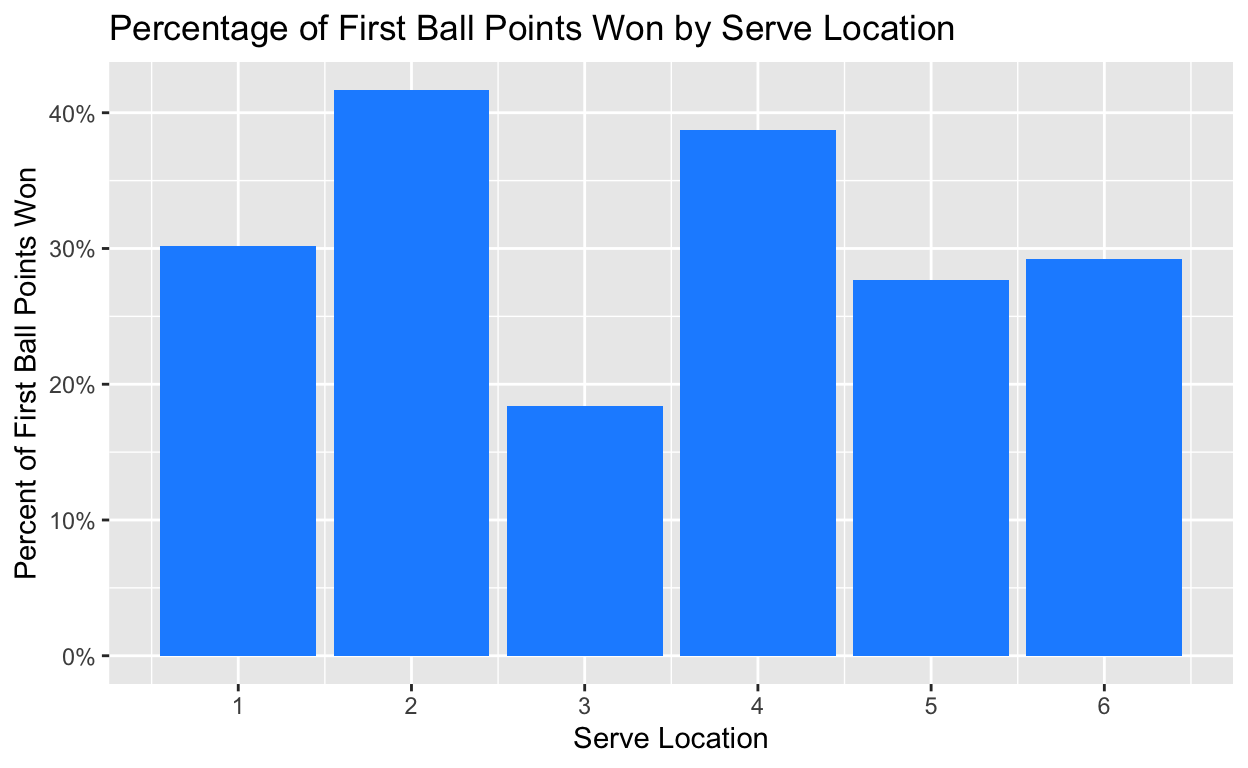
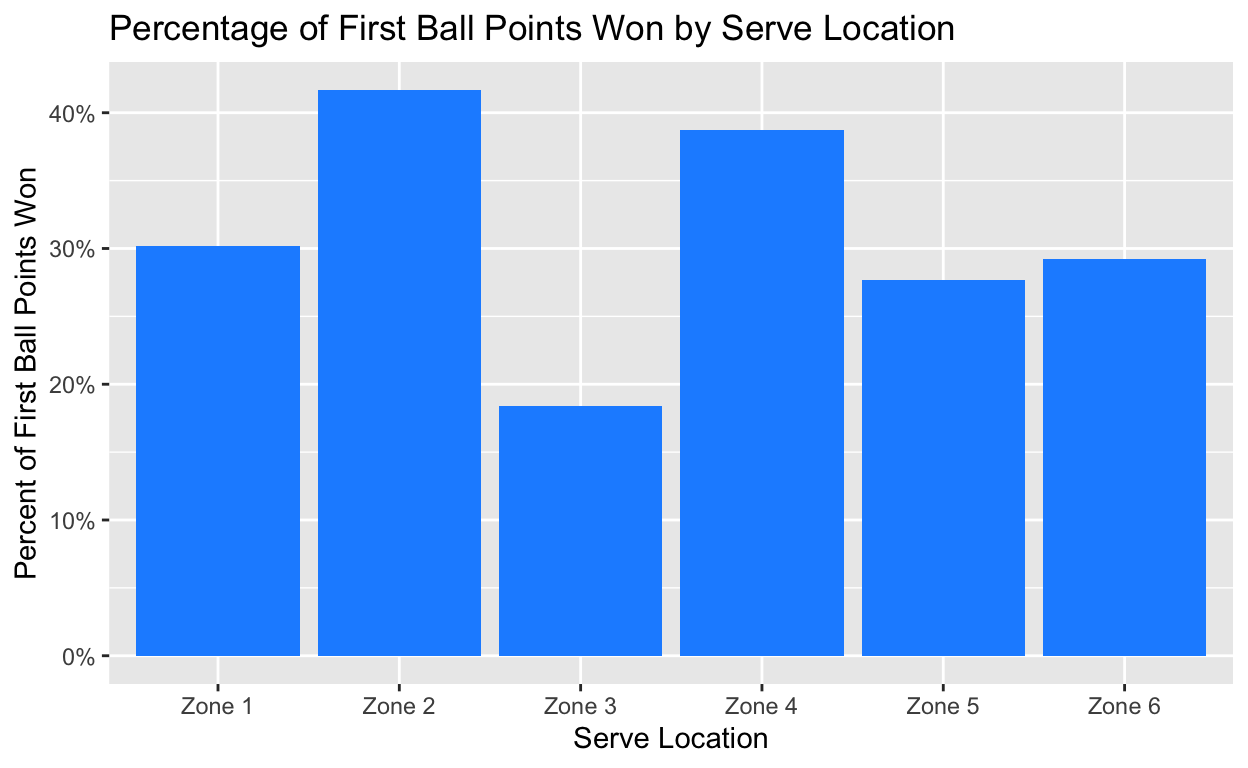
milestone 4

diff --git a/index.html b/index.html
@@ -116,7 +116,7 @@ code span.wa { color: #5e5e5e; font-style: italic; } /* Warning */
   <!--/radix_placeholder_rmarkdown_metadata-->
   
   <script type="text/json" id="radix-resource-manifest">
-  {"type":"character","attributes":{},"value":["index_files/anchor-4.2.2/anchor.min.js","index_files/bowser-1.9.3/bowser.min.js","index_files/distill-2.2.21/template.v2.js","index_files/figure-html5/plot for loss proportion-1.png","index_files/figure-html5/Plot for win proportion-1.png","index_files/header-attrs-2.17/header-attrs.js","index_files/header-attrs-2.30/header-attrs.js","index_files/jquery-3.6.0/jquery-3.6.0.js","index_files/jquery-3.6.0/jquery-3.6.0.min.js","index_files/jquery-3.6.0/jquery-3.6.0.min.map","index_files/popper-2.6.0/popper.min.js","index_files/tippy-6.2.7/tippy-bundle.umd.min.js","index_files/tippy-6.2.7/tippy-light-border.css","index_files/tippy-6.2.7/tippy.css","index_files/tippy-6.2.7/tippy.umd.min.js","index_files/webcomponents-2.0.0/webcomponents.js","Team_data/ASU_MASTER.csv","Team_data/ASU_MASTER.numbers","Team_data/AUB_MASTER.csv","Team_data/CCU_MASTER.csv","Team_data/GSO_MASTER.csv","Team_data/ISU_MASTER.csv"]}
+  {"type":"character","attributes":{},"value":["index_files/anchor-4.2.2/anchor.min.js","index_files/bowser-1.9.3/bowser.min.js","index_files/distill-2.2.21/template.v2.js","index_files/figure-html5/plot for loss proportion-1.png","index_files/figure-html5/Plot for win proportion-1.png","index_files/figure-html5/unnamed-chunk-3-1.png","index_files/header-attrs-2.17/header-attrs.js","index_files/header-attrs-2.30/header-attrs.js","index_files/jquery-3.6.0/jquery-3.6.0.js","index_files/jquery-3.6.0/jquery-3.6.0.min.js","index_files/jquery-3.6.0/jquery-3.6.0.min.map","index_files/popper-2.6.0/popper.min.js","index_files/tippy-6.2.7/tippy-bundle.umd.min.js","index_files/tippy-6.2.7/tippy-light-border.css","index_files/tippy-6.2.7/tippy.css","index_files/tippy-6.2.7/tippy.umd.min.js","index_files/webcomponents-2.0.0/webcomponents.js","Team_data/ASU_MASTER.csv","Team_data/ASU_MASTER.numbers","Team_data/AUB_MASTER.csv","Team_data/CCU_MASTER.csv","Team_data/GSO_MASTER.csv","Team_data/ISU_MASTER.csv"]}
   </script>
   <!--radix_placeholder_navigation_in_header-->
   <!--/radix_placeholder_navigation_in_header-->
@@ -1657,43 +1657,26 @@ code span.wa { color: #5e5e5e; font-style: italic; } /* Warning */
 <div class="sourceCode">
 <pre class="sourceCode r"><code class="sourceCode r"><span><span class='va'>all_teams</span><span class='op'>&lt;-</span> <span class='va'>all_teams</span> <span class='op'>|&gt;</span> </span>
 <span>   <span class='fu'><a href='https://dplyr.tidyverse.org/reference/mutate.html'>mutate</a></span><span class='op'>(</span>FBWL <span class='op'>=</span> <span class='fu'><a href='https://dplyr.tidyverse.org/reference/case_when.html'>case_when</a></span><span class='op'>(</span><span class='va'>FBWL</span> <span class='op'>==</span> <span class='st'>"W"</span> <span class='op'>~</span> <span class='st'>"Win"</span>, <span class='va'>FBWL</span> <span class='op'>==</span> <span class='st'>"L"</span> <span class='op'>~</span> <span class='st'>"Loss"</span><span class='op'>)</span>,</span>
-<span>          FBWL <span class='op'>=</span> <span class='fu'><a href='https://tidyr.tidyverse.org/reference/replace_na.html'>replace_na</a></span><span class='op'>(</span><span class='va'>FBWL</span>, <span class='st'>"Rally Continued"</span><span class='op'>)</span><span class='op'>)</span> </span>
+<span>          FBWL <span class='op'>=</span> <span class='fu'><a href='https://tidyr.tidyverse.org/reference/replace_na.html'>replace_na</a></span><span class='op'>(</span><span class='va'>FBWL</span>, <span class='st'>"Rally Continued"</span><span class='op'>)</span><span class='op'>)</span> <span class='op'>|&gt;</span> </span>
+<span>  <span class='fu'><a href='https://dplyr.tidyverse.org/reference/mutate.html'>mutate</a></span><span class='op'>(</span>`Pass Loc` <span class='op'>=</span> <span class='fu'><a href='https://rdrr.io/r/base/paste.html'>paste</a></span><span class='op'>(</span><span class='st'>"Zone"</span>, <span class='va'>`Pass Loc`</span><span class='op'>)</span><span class='op'>)</span></span>
 <span><span class='va'>all_teams</span></span></code></pre>
 </div>
 <pre><code># A tibble: 2,866 × 4
    Team  Rotation `Pass Loc` FBWL           
-   &lt;chr&gt;    &lt;dbl&gt;      &lt;dbl&gt; &lt;chr&gt;          
- 1 AUB          1          5 Win            
- 2 AUB          1          5 Win            
- 3 AUB          1          1 Win            
- 4 AUB          1          1 Win            
- 5 AUB          1          1 Rally Continued
- 6 AUB          1          6 Rally Continued
- 7 AUB          1          5 Rally Continued
- 8 AUB          2          5 Rally Continued
- 9 AUB          2          1 Rally Continued
-10 AUB          2          6 Rally Continued
+   &lt;chr&gt;    &lt;dbl&gt; &lt;chr&gt;      &lt;chr&gt;          
+ 1 AUB          1 Zone 5     Win            
+ 2 AUB          1 Zone 5     Win            
+ 3 AUB          1 Zone 1     Win            
+ 4 AUB          1 Zone 1     Win            
+ 5 AUB          1 Zone 1     Rally Continued
+ 6 AUB          1 Zone 6     Rally Continued
+ 7 AUB          1 Zone 5     Rally Continued
+ 8 AUB          2 Zone 5     Rally Continued
+ 9 AUB          2 Zone 1     Rally Continued
+10 AUB          2 Zone 6     Rally Continued
 # ℹ 2,856 more rows</code></pre>
 </div>
-<div class="layout-chunk" data-layout="l-body">
-<div class="sourceCode">
-<pre class="sourceCode r"><code class="sourceCode r"><span><span class='va'>all_teams</span></span></code></pre>
-</div>
-<pre><code># A tibble: 2,866 × 4
-   Team  Rotation `Pass Loc` FBWL           
-   &lt;chr&gt;    &lt;dbl&gt;      &lt;dbl&gt; &lt;chr&gt;          
- 1 AUB          1          5 Win            
- 2 AUB          1          5 Win            
- 3 AUB          1          1 Win            
- 4 AUB          1          1 Win            
- 5 AUB          1          1 Rally Continued
- 6 AUB          1          6 Rally Continued
- 7 AUB          1          5 Rally Continued
- 8 AUB          2          5 Rally Continued
- 9 AUB          2          1 Rally Continued
-10 AUB          2          6 Rally Continued
-# ℹ 2,856 more rows</code></pre>
-</div>
+<h2 id="winloss-proportions-with-visualizations">Win/Loss Proportions with Visualizations</h2>
 <div class="layout-chunk" data-layout="l-body">
 <div class="sourceCode">
 <pre class="sourceCode r"><code class="sourceCode r"><span> <span class='va'>prop_win</span><span class='op'>&lt;-</span> <span class='va'>all_teams</span><span class='op'>|&gt;</span> </span>
@@ -1718,7 +1701,6 @@ code span.wa { color: #5e5e5e; font-style: italic; } /* Warning */
 <div class="sourceCode">
 <pre class="sourceCode r"><code class="sourceCode r"><span><span class='fu'><a href='https://ggplot2.tidyverse.org/reference/ggplot.html'>ggplot</a></span><span class='op'>(</span><span class='va'>prop_win</span>, mapping <span class='op'>=</span> <span class='fu'><a href='https://ggplot2.tidyverse.org/reference/aes.html'>aes</a></span><span class='op'>(</span>x <span class='op'>=</span> <span class='va'>`Pass Loc`</span>, y <span class='op'>=</span> <span class='va'>prop</span> <span class='op'>)</span><span class='op'>)</span><span class='op'>+</span> </span>
 <span>  <span class='fu'><a href='https://ggplot2.tidyverse.org/reference/geom_bar.html'>geom_col</a></span><span class='op'>(</span>fill <span class='op'>=</span> <span class='st'>"dodgerblue"</span>, alpha <span class='op'>=</span> <span class='fl'>1</span><span class='op'>)</span> <span class='op'>+</span></span>
-<span>  <span class='fu'><a href='https://ggplot2.tidyverse.org/reference/scale_continuous.html'>scale_x_continuous</a></span><span class='op'>(</span>breaks <span class='op'>=</span> <span class='fl'>1</span><span class='op'>:</span><span class='fl'>6</span><span class='op'>)</span> <span class='op'>+</span></span>
 <span>  <span class='fu'><a href='https://ggplot2.tidyverse.org/reference/scale_continuous.html'>scale_y_continuous</a></span><span class='op'>(</span>labels <span class='op'>=</span> <span class='fu'><a href='https://scales.r-lib.org/reference/percent_format.html'>percent_format</a></span><span class='op'>(</span><span class='op'>)</span><span class='op'>)</span> <span class='op'>+</span></span>
 <span>  <span class='fu'><a href='https://ggplot2.tidyverse.org/reference/labs.html'>labs</a></span><span class='op'>(</span>title <span class='op'>=</span> <span class='st'>"Percentage of First Ball Points Won by Serve Location"</span>, </span>
 <span>       x <span class='op'>=</span> <span class='st'>"Serve Location"</span>, </span>
@@ -1730,7 +1712,6 @@ code span.wa { color: #5e5e5e; font-style: italic; } /* Warning */
 <div class="sourceCode">
 <pre class="sourceCode r"><code class="sourceCode r"><span><span class='fu'><a href='https://ggplot2.tidyverse.org/reference/ggplot.html'>ggplot</a></span><span class='op'>(</span><span class='va'>prop_loss</span>, mapping <span class='op'>=</span> <span class='fu'><a href='https://ggplot2.tidyverse.org/reference/aes.html'>aes</a></span><span class='op'>(</span>x <span class='op'>=</span> <span class='va'>`Pass Loc`</span>, y <span class='op'>=</span> <span class='va'>prop</span><span class='op'>)</span><span class='op'>)</span> <span class='op'>+</span> </span>
 <span>  <span class='fu'><a href='https://ggplot2.tidyverse.org/reference/geom_bar.html'>geom_col</a></span><span class='op'>(</span>fill <span class='op'>=</span> <span class='st'>"indianred"</span>, alpha <span class='op'>=</span> <span class='fl'>1</span><span class='op'>)</span> <span class='op'>+</span> </span>
-<span>  <span class='fu'><a href='https://ggplot2.tidyverse.org/reference/scale_continuous.html'>scale_x_continuous</a></span><span class='op'>(</span>breaks <span class='op'>=</span> <span class='fl'>1</span><span class='op'>:</span><span class='fl'>6</span><span class='op'>)</span> <span class='op'>+</span></span>
 <span>  <span class='fu'><a href='https://ggplot2.tidyverse.org/reference/scale_continuous.html'>scale_y_continuous</a></span><span class='op'>(</span>labels <span class='op'>=</span> <span class='fu'><a href='https://scales.r-lib.org/reference/percent_format.html'>percent_format</a></span><span class='op'>(</span><span class='op'>)</span>, breaks <span class='op'>=</span> <span class='fu'><a href='https://rdrr.io/r/base/seq.html'>seq</a></span><span class='op'>(</span><span class='fl'>0</span>, <span class='fl'>1</span>, by <span class='op'>=</span> <span class='fl'>0.05</span><span class='op'>)</span><span class='op'>)</span> <span class='op'>+</span></span>
 <span>  <span class='fu'><a href='https://ggplot2.tidyverse.org/reference/labs.html'>labs</a></span><span class='op'>(</span>title <span class='op'>=</span> <span class='st'>"Percentage of First Ball Points Lost by Serve Location"</span>, </span>
 <span>       x <span class='op'>=</span> <span class='st'>"Serve Location"</span>, </span>
@@ -1738,7 +1719,64 @@ code span.wa { color: #5e5e5e; font-style: italic; } /* Warning */
 </div>
 <p><img src="index_files/figure-html5/plot%20for%20loss%20proportion-1.png" alt="" width="624" /></p>
 </div>
-<div class="sourceCode" id="cb8"><pre class="sourceCode r distill-force-highlighting-css"><code class="sourceCode r"></code></pre></div>
+<h2 id="regression-and-interpretation">Regression and Interpretation</h2>
+<div class="layout-chunk" data-layout="l-body">
+<div class="sourceCode">
+<pre class="sourceCode r"><code class="sourceCode r"><span><span class='fu'><a href='https://rdrr.io/r/stats/lm.html'>lm</a></span><span class='op'>(</span><span class='va'>FBWL</span> <span class='op'>==</span> <span class='st'>"Win"</span> <span class='op'>~</span> <span class='va'>`Pass Loc`</span>, data <span class='op'>=</span> <span class='va'>all_teams</span><span class='op'>)</span></span></code></pre>
+</div>
+<pre><code>
+Call:
+lm(formula = FBWL == &quot;Win&quot; ~ `Pass Loc`, data = all_teams)
+
+Coefficients:
+      (Intercept)   `Pass Loc`Zone 2   `Pass Loc`Zone 3  
+          0.30154            0.11513           -0.11733  
+ `Pass Loc`Zone 4   `Pass Loc`Zone 5   `Pass Loc`Zone 6  
+          0.08556           -0.02506           -0.00913  
+`Pass Loc`Zone NA  
+         -0.30154  </code></pre>
+</div>
+<p>Interpretation:
+Within this regression, the intercept is the predicted win rate for serves to zone 1, which is 0.30154 or 30.154 and this serves as a baseline value for the other locations. This means that when the ball is served to zone 2, the predicted first ball win rate is .11513 or 11.513 percentage points higher than if the ball were to be served to zone 1. Following this logic for the other zones, it can be observed that serves to zone 3 have a predicted win rate that is 11.733 percentage points lower than serves to zone 1. Serves to zone 4 have a predicted win rate that is 8.556 percentage points higher than serves to zone 1. Serves to zone 5 have a predicted win rate that is 0.2506 percentage points lower than serves to zone 1. Finally, serves to zone 6 have a predicted win rate that is 0.0913 percentage points lower than serves to zone 1. All in all, this regression predicts that serves to zone 2 will have a win rate that is marginally higher than zone 1 and the next closest predicted win rate which is zone 4.</p>
+<div class="layout-chunk" data-layout="l-body">
+<div class="sourceCode">
+<pre class="sourceCode r"><code class="sourceCode r"><span><span class='kw'><a href='https://rdrr.io/r/base/library.html'>library</a></span><span class='op'>(</span><span class='va'><a href='https://github.com/tidymodels/infer'>infer</a></span><span class='op'>)</span></span>
+<span></span>
+<span><span class='va'>boot_prop_win</span> <span class='op'>&lt;-</span> <span class='va'>all_teams</span><span class='op'>|&gt;</span> </span>
+<span>  <span class='fu'><a href='https://infer.tidymodels.org/reference/rep_sample_n.html'>rep_slice_sample</a></span><span class='op'>(</span>prop <span class='op'>=</span> <span class='fl'>1</span>, replace <span class='op'>=</span> <span class='cn'>TRUE</span>, reps <span class='op'>=</span> <span class='fl'>1000</span><span class='op'>)</span> <span class='op'>|&gt;</span> </span>
+<span>  <span class='fu'><a href='https://tidyr.tidyverse.org/reference/drop_na.html'>drop_na</a></span><span class='op'>(</span><span class='op'>)</span> <span class='op'>|&gt;</span></span>
+<span>  <span class='fu'><a href='https://dplyr.tidyverse.org/reference/group_by.html'>group_by</a></span><span class='op'>(</span><span class='va'>replicate</span>, <span class='va'>`Pass Loc`</span>, <span class='va'>FBWL</span><span class='op'>)</span><span class='op'>|&gt;</span> </span>
+<span>  <span class='fu'><a href='https://dplyr.tidyverse.org/reference/summarise.html'>summarise</a></span><span class='op'>(</span>n <span class='op'>=</span> <span class='fu'><a href='https://dplyr.tidyverse.org/reference/context.html'>n</a></span><span class='op'>(</span><span class='op'>)</span>, .groups <span class='op'>=</span> <span class='st'>"drop_last"</span><span class='op'>)</span> <span class='op'>|&gt;</span> </span>
+<span>  <span class='fu'><a href='https://dplyr.tidyverse.org/reference/mutate.html'>mutate</a></span><span class='op'>(</span>prop <span class='op'>=</span> <span class='va'>n</span><span class='op'>/</span><span class='fu'><a href='https://rdrr.io/r/base/sum.html'>sum</a></span><span class='op'>(</span><span class='va'>n</span><span class='op'>)</span><span class='op'>)</span> <span class='op'>|&gt;</span> </span>
+<span>  <span class='fu'><a href='https://dplyr.tidyverse.org/reference/filter.html'>filter</a></span><span class='op'>(</span><span class='va'>FBWL</span> <span class='op'>==</span> <span class='st'>"Win"</span><span class='op'>)</span> <span class='op'>|&gt;</span></span>
+<span>   <span class='fu'><a href='https://tidyr.tidyverse.org/reference/pivot_wider.html'>pivot_wider</a></span><span class='op'>(</span> names_from <span class='op'>=</span> <span class='va'>replicate</span>, <span class='va'>`Pass Loc`</span>,</span>
+<span>              values_from <span class='op'>=</span> <span class='va'>prop</span><span class='op'>)</span> <span class='op'>|&gt;</span></span>
+<span>     <span class='fu'><a href='https://dplyr.tidyverse.org/reference/mutate.html'>mutate</a></span><span class='op'>(</span>mean_prop <span class='op'>=</span> <span class='fu'><a href='https://rdrr.io/r/base/colSums.html'>rowMeans</a></span><span class='op'>(</span><span class='fu'><a href='https://dplyr.tidyverse.org/reference/across.html'>across</a></span><span class='op'>(</span><span class='fu'><a href='https://tidyselect.r-lib.org/reference/where.html'>where</a></span><span class='op'>(</span><span class='va'>is.numeric</span><span class='op'>)</span><span class='op'>)</span>, na.rm <span class='op'>=</span> <span class='cn'>TRUE</span><span class='op'>)</span><span class='op'>)</span> <span class='op'>|&gt;</span> </span>
+<span>    <span class='fu'><a href='https://dplyr.tidyverse.org/reference/select.html'>select</a></span><span class='op'>(</span><span class='va'>`Pass Loc`</span>, <span class='va'>mean_prop</span><span class='op'>)</span></span>
+<span></span>
+<span></span>
+<span> </span>
+<span><span class='va'>boot_prop_win</span></span></code></pre>
+</div>
+<pre><code># A tibble: 6 × 2
+# Groups:   Pass Loc [6]
+  `Pass Loc` mean_prop
+  &lt;chr&gt;          &lt;dbl&gt;
+1 Zone 1         0.301
+2 Zone 2         0.424
+3 Zone 3         0.184
+4 Zone 4         0.389
+5 Zone 5         0.277
+6 Zone 6         0.293</code></pre>
+</div>
+<div class="layout-chunk" data-layout="l-body">
+<div class="sourceCode">
+<pre class="sourceCode r"><code class="sourceCode r"><span><span class='fu'><a href='https://ggplot2.tidyverse.org/reference/ggplot.html'>ggplot</a></span><span class='op'>(</span>data <span class='op'>=</span> <span class='va'>boot_prop_win</span>, mapping <span class='op'>=</span> <span class='fu'><a href='https://ggplot2.tidyverse.org/reference/aes.html'>aes</a></span><span class='op'>(</span>x <span class='op'>=</span> <span class='va'>`Pass Loc`</span><span class='op'>)</span><span class='op'>)</span> <span class='op'>+</span> </span>
+<span>  <span class='fu'><a href='https://ggplot2.tidyverse.org/reference/geom_bar.html'>geom_col</a></span><span class='op'>(</span><span class='fu'><a href='https://ggplot2.tidyverse.org/reference/aes.html'>aes</a></span><span class='op'>(</span>y <span class='op'>=</span> <span class='va'>mean_prop</span><span class='op'>)</span><span class='op'>)</span></span></code></pre>
+</div>
+<p><img src="index_files/figure-html5/unnamed-chunk-3-1.png" alt="" width="624" /></p>
+</div>
+<div class="sourceCode" id="cb9"><pre class="sourceCode r distill-force-highlighting-css"><code class="sourceCode r"></code></pre></div>
 <!--radix_placeholder_article_footer-->
 <!--/radix_placeholder_article_footer-->
 </div>
